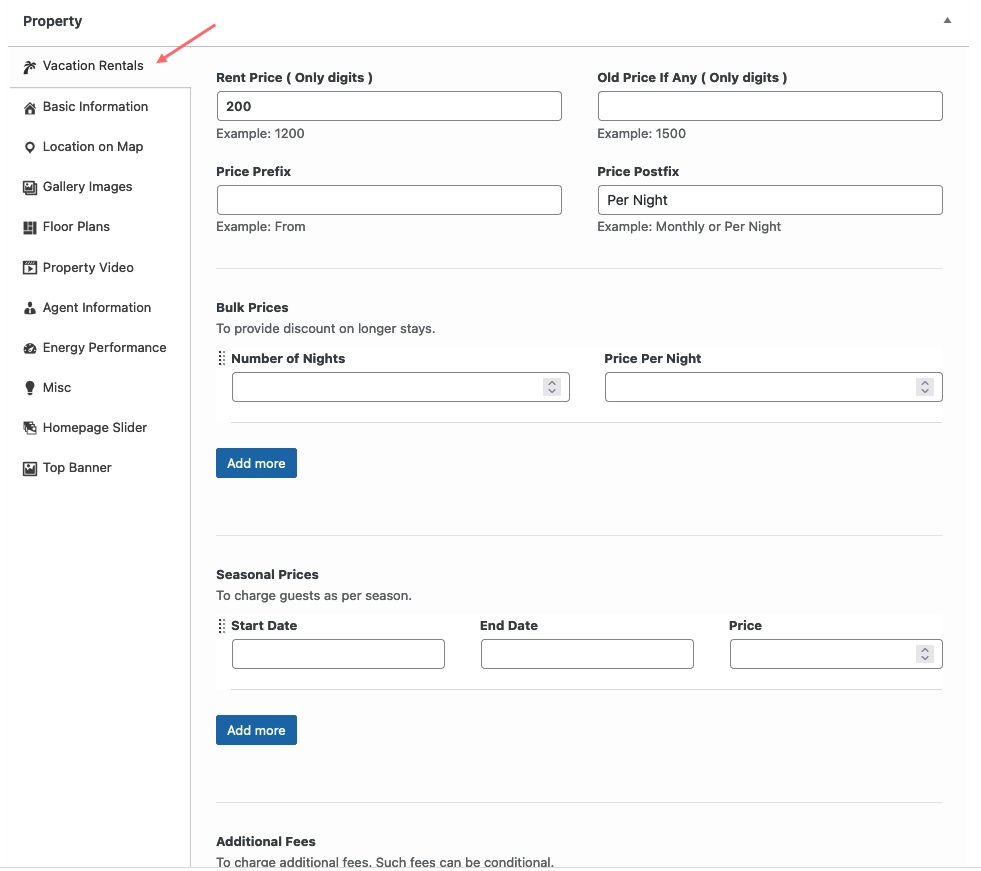
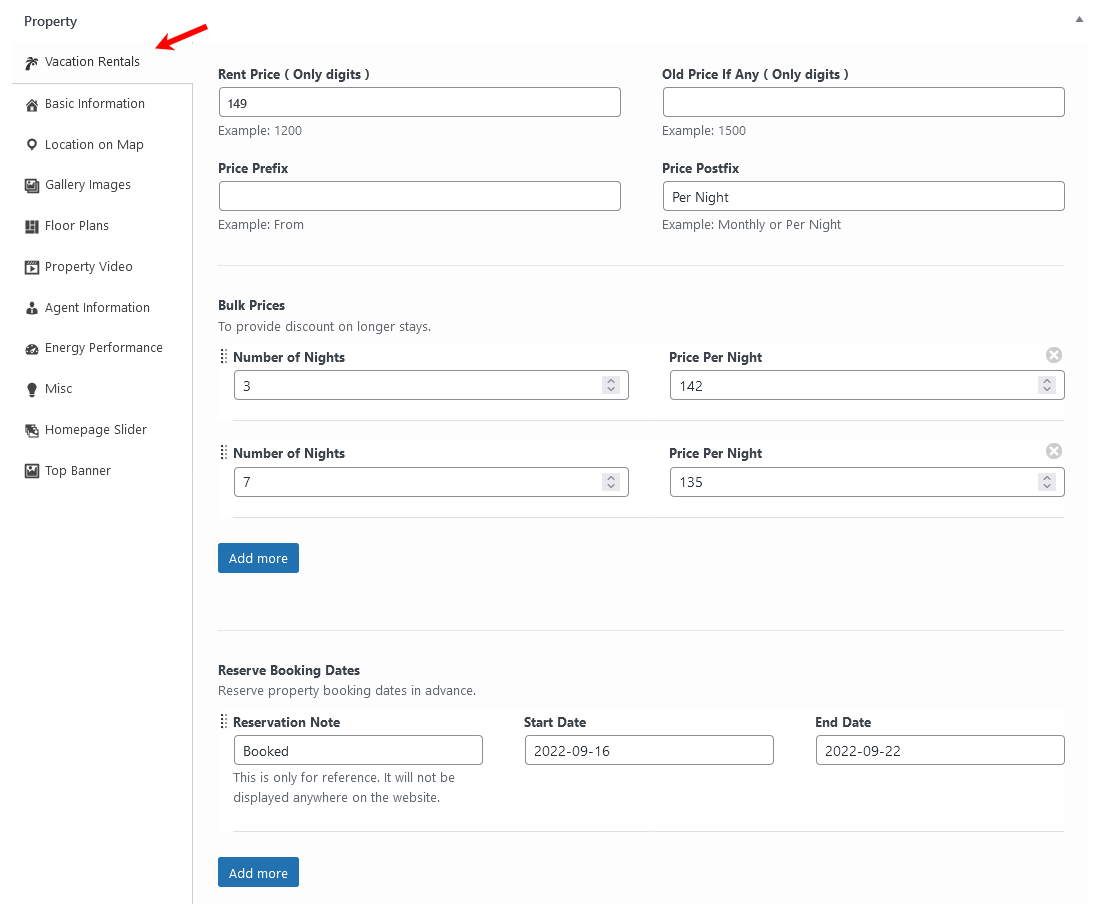
Updated Add Property for Vacation Rental page

diff --git a/docs/add-property-vr.md b/docs/add-property-vr.md
@@ -12,11 +12,9 @@ If you are using the **RealHomes Vacation Rentals** plugin and have [configured]
 
 ![Vacations Rentals](images/add-content/vacation-rentals.png)
 
-### **Add Basic Information**
+### Reserve Booking Dates
 
-Add basic information related to property, Like price, area, beds, baths, garages, etc. 
-
-![Basic Information Vacations Rental](images/add-content/basic-information-vr.png)
+![Vacations Rentals](images/vacation-rentals/reserve-booking-dates.png)
 
 ### Seasonal Prices
 
@@ -33,6 +31,10 @@ Add basic information related to property, Like price, area, beds, baths, garage
 ### Guest Accomodations
 
 ![Vacations Rentals](images/add-content/guests-accomodation.png)
+
+### Assign Owner
+
+![Vacations Rentals](images/vacation-rentals/assign-owner.png)
 
 ### Outdoor Features and Property Surroundings
 
@@ -63,6 +65,12 @@ Once you created the iCalendar feed page, you can see the booking calendar feed 
 To sync third-party booking calendars with your booking calendar, copy the iCalendar feed URL from their website. After that you can add that feed URL to *iCalendar Import* section as you can see in the screenshot given below. Set a name for reference in the **Feed Name** field and feed URL to the **Feed URL** field. You can add multiple feed URLs to sync from.
 
 ![iCalendar import & export](images/add-content/icalendar-import-export.png)
+
+### **Add Basic Information**
+
+Add basic information related to property, Like price, area, beds, baths, garages, etc.
+
+![Basic Information Vacations Rental](images/add-content/basic-information-vr.png)
 
 ### **Mark Property as Featured**
 
